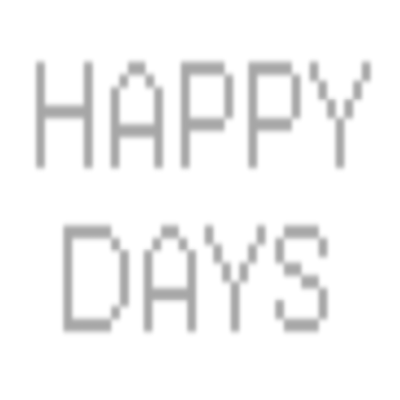
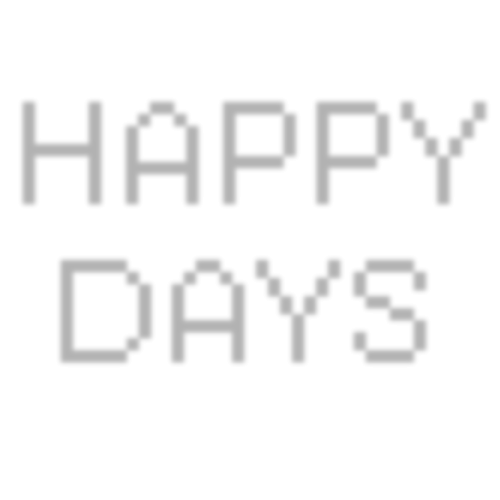
feat: add README and initial project structure with shader effects

Changed region(s): [[0.03, 0.15, 0.99, 0.42], [0.12, 0.51, 0.87, 0.84]]

diff --git a/src/main.js b/src/main.js
@@ -3,8 +3,8 @@ import * as THREE from "three"; // Main Three.js library
 import "./style.css"; // External styles for layout/canvas
 
 // === [ Texture Files ] ===
-const texture = "/Dark2.png"; // Main PNG (shown with shader distortion)
-const shadow_texture = "/Blurred2.png"; // Secondary PNG (adds soft blur/overlay)
+const texture = "/Dark.png"; // Main PNG (shown with shader distortion)
+const shadow_texture = "/Blurred.png"; // Secondary PNG (adds soft blur/overlay)
 
 // === [ Scene Setup ] ===
 const scene = new THREE.Scene();

diff --git a/src/style.css b/src/style.css
@@ -1,11 +1,9 @@
-/* src/style.css */
-
 html,
 body {
   margin: 0;
   padding: 0;
   overflow: hidden;
-  background: #111; /* dark background so PNGs are visible */
+  background: #111; /* dark background for visibility of PNG */
 }
 
 canvas {

diff --git a/index.html b/index.html
@@ -9,6 +9,7 @@
 </head>
 
 <body>
+  <!-- Main entry script, using Vite-style module path -->
   <script type="module"
           src="/src/main.js"></script>
 </body>

diff --git a/README.md b/README.md
@@ -1,0 +1,104 @@
+# 🌀 Shader PNG Distortion
+
+> A Three.js experiment using GLSL shaders to create a distortion effect on a PNG image based on mouse proximity.
+
+---
+
+## 🖼 Preview
+
+![Shader Demo](media/peeling-demo.gif)
+
+
+
+---
+
+## ⚙ Getting Started
+
+This is a Vite-style JavaScript project using Three.js and custom vertex/fragment shaders.
+
+### Run locally:
+
+```bash
+# 1. Clone this repo
+git clone https://github.com/suzubu/shader-png-distortion.git
+
+# 2. Open index.html in a modern browser
+open index.html
+```
+
+> No build tools required, but a local dev server is recommended if using modules.
+
+---
+
+## ✨ Features
+
+- 🎯 Mouse-driven displacement distortion using GLSL shaders
+- 🌌 Orthographic camera setup with plane-based rendering
+- 🎭 PNG image layered with a blurred shadow using custom alpha blending
+- 🛠 Real-time raycasting to drive displacement point
+- 🧪 Smooth easing and mapping math functions inside shaders
+
+---
+
+## 💡 Dev Notes
+
+- Uses `uDisplacement` uniform to pass interaction point into both shaders
+- Main shader modifies vertex Z-position based on distance to cursor
+- Shadow shader adjusts alpha to give soft edge highlight
+- `Dark2.png` and `Blurred2.png` must be present in your `/public` or root directory
+
+---
+
+## 📚 Inspiration / Credits
+
+Inspired by:
+
+- [Codepen @ Paola Demichelis](https://codepen.io/Paola-Demichelis-the-lessful/pen/ByaNGod)
+- [Three.js Shader Demos](https://threejs.org/examples/#webgl_shader)
+- [Patricio Gonzalez Vivo's GLSL functions](https://thebookofshaders.com)
+
+---
+
+## 🧪 Known Issues
+
+- PNGs must be hosted or locally referenced correctly for texture loading to work
+- Mobile interaction not yet optimized
+- Performance may vary with image resolution and geometry segment count
+
+---
+
+## 🔭 Roadmap / TODO
+
+- [ ] Add hover feedback for interactive areas
+- [ ] Convert to WebGPU for experimental improvements
+- [ ] Add GUI slider for displacement strength
+
+---
+
+## 📂 Folder Structure
+
+```bash
+shader-png-distortion/
+├── index.html
+├── src/
+│   ├── main.js
+│   └── style.css
+├── public/
+│   ├── Dark.png
+│   └── Blurred.png
+├── media/
+│   └── peeling-demo.gif
+└── README.md
+```
+
+---
+
+## 📜 License
+
+MIT — enjoy, remix, and credit appreciated.
+
+---
+
+## 🙋♀ Author
+
+Built by [suzubu](https://github.com/suzubu) using Three.js and GLSL.
